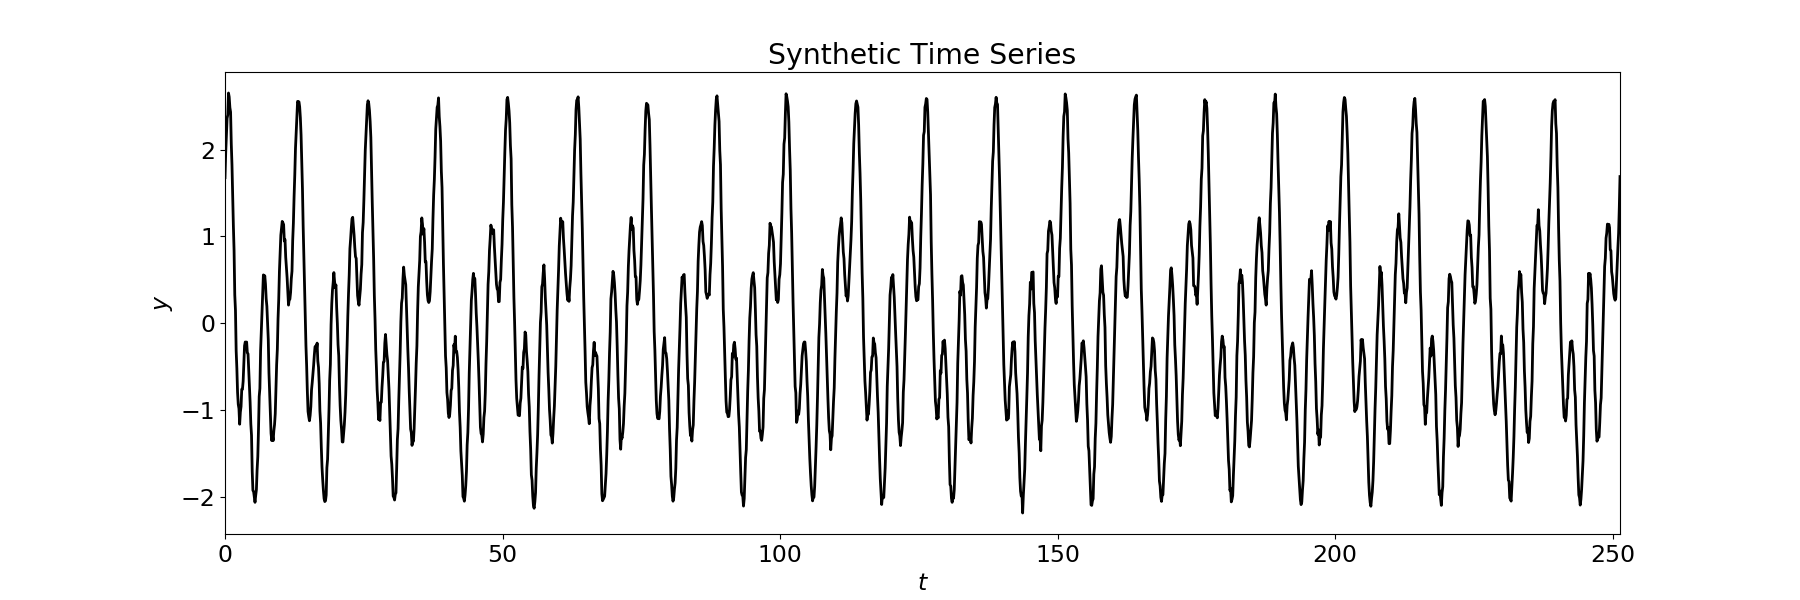
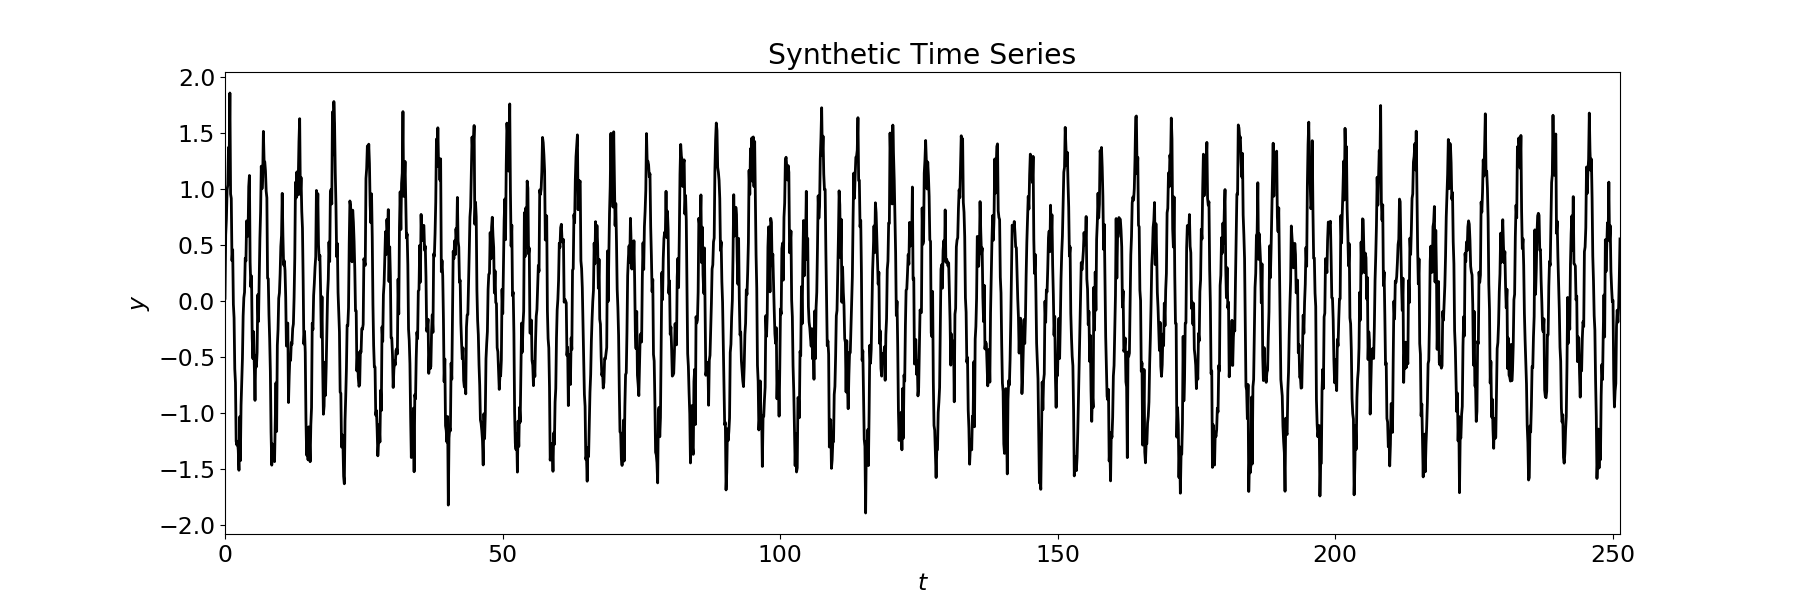
update figures

Changed region(s): [[0.0933, 0.18, 0.9022, 0.84], [0.0933, 0.87, 0.1244, 0.9], [0.0933, 0.12, 0.1244, 0.15]]

diff --git a/code/example.py b/code/example.py
@@ -14,13 +14,40 @@ import sys
 
 import generate_dataset
 import lstm_encoder_decoder
+import plotting 
 
 import matplotlib
 matplotlib.rcParams.update({'font.size': 17})
 
+#----------------------------------------------------------------------------------------------------------------
 # generate dataset for LSTM
 t, y = generate_dataset.synthetic_data()
 t_train, y_train, t_test, y_test = generate_dataset.train_test_split(t, y, split = 0.8)
+
+# plot time series 
+plt.figure(figsize = (18, 6))
+plt.plot(t, y, color = 'k', linewidth = 2)
+plt.xlim([t[0], t[-1]])
+plt.xlabel(r'$t$')
+plt.ylabel(r'$y$')
+plt.title('Synthetic Time Series')
+plt.savefig('plots/synthetic_time_series.png')
+
+# plot time series with train/test split
+plt.figure(figsize = (18, 6))
+plt.plot(t_train, y_train, color = '0.4', linewidth = 2, label = 'Train') 
+plt.plot(np.concatenate([t_train[-2:-1], t_test]), np.concatenate([y_train[-2:-1], y_test]),
+         color = (0.74, 0.37, 0.22), linewidth = 2, label = 'Test')
+plt.xlim([t[0], t[-1]])
+plt.xlabel(r'$t$')
+plt.ylabel(r'$y$')
+plt.title('Time Series Split into Train and Test Sets')
+plt.legend(bbox_to_anchor=(1, 1))
+plt.tight_layout
+plt.savefig('plots/train_test_split.png')
+
+#----------------------------------------------------------------------------------------------------------------
+# window dataset
 
 # set size of input/output windows 
 iw = 80 
@@ -31,47 +58,11 @@ s = 5
 Xtrain, Ytrain= generate_dataset.windowed_dataset(y_train, input_window = iw, output_window = ow, stride = s)
 Xtest, Ytest = generate_dataset.windowed_dataset(y_test, input_window = iw, output_window = ow, stride = s)
 
-# convert windowed data from np.array to PyTorch tensor
-X_train, Y_train, X_test, Y_test = generate_dataset.numpy_to_torch(Xtrain, Ytrain, Xtest, Ytest)
-
-# specify model parameters and train
-model = lstm_encoder_decoder.lstm_seq2seq(input_size = X_train.shape[2], hidden_size = 15)
-loss, loss_tf, loss_no_tf = model.train_model(X_train, Y_train, n_epochs = 10, target_len = ow, batch_size = 5, teacher_forcing_ratio = 0.1, learning_rate = 0.01, dynamic_tf = False)
-
-
-
-
-
-
-sys.exit() 
-# plots: 
-# time series 
-plt.figure(figsize = (18, 6))
-plt.plot(t, y, color = 'k', linewidth = 2)
-plt.xlim([t[0], t[-1]])
-plt.xlabel(r'$t$')
-plt.ylabel(r'$y$')
-plt.title('Synthetic Time Series')
-plt.savefig('plots/synthetic_time_series.png')
-
-# time series with train/test split
-plt.figure(figsize = (18, 6))
-plt.plot(t_train, y_train, color = '0.4', linewidth = 2, label = 'Train') 
-plt.plot(np.concatenate([t_train[-2:-1], t_test]), np.concatenate([y_train[-2:-1], y_test]),
-         color = (0.21, 0.47, 0.69), linewidth = 2, label = 'Test')
-plt.xlim([t[0], t[-1]])
-plt.xlabel(r'$t$')
-plt.ylabel(r'$y$')
-plt.title('Time Series Split into Train and Test Sets')
-plt.legend(bbox_to_anchor=(1, 1))
-plt.tight_layout
-plt.savefig('plots/train_test_split.png')
-
-# example of windowed data  
+# plot example of windowed data  
 plt.figure(figsize = (10, 6)) 
 plt.plot(np.arange(0, iw), Xtrain[:, 0, 0], 'k', linewidth = 2.2, label = 'Input')
 plt.plot(np.arange(iw - 1, iw + ow), np.concatenate([[Xtrain[-1, 0, 0]], Ytrain[:, 0, 0]]),
-         color = (0.76, 0.01, 0.01), linewidth = 2.2, label = 'Target')
+         color = (0.2, 0.42, 0.72), linewidth = 2.2, label = 'Target')
 plt.xlim([0, iw + ow - 1])
 plt.xlabel(r'$t$')
 plt.ylabel(r'$y$')
@@ -79,6 +70,19 @@ plt.title('Example of Windowed Training Data')
 plt.legend(bbox_to_anchor=(1.3, 1))
 plt.tight_layout() 
 plt.savefig('plots/windowed_data.png')
+
+#----------------------------------------------------------------------------------------------------------------
+# LSTM encoder-decoder
+
+# convert windowed data from np.array to PyTorch tensor
+X_train, Y_train, X_test, Y_test = generate_dataset.numpy_to_torch(Xtrain, Ytrain, Xtest, Ytest)
+
+# specify model parameters and train
+model = lstm_encoder_decoder.lstm_seq2seq(input_size = X_train.shape[2], hidden_size = 15)
+loss, loss_tf, loss_no_tf = model.train_model(X_train, Y_train, n_epochs = 50, target_len = ow, batch_size = 5, teacher_forcing_ratio = 0.5, learning_rate = 0.01, dynamic_tf = False)
+
+# plot predictions on train/test data
+plotting.plot_train_test_results(model, Xtrain, Ytrain, Xtest, Ytest)
 
 plt.close('all')
 

diff --git a/code/plotting.py b/code/plotting.py
@@ -1,0 +1,69 @@
+# Author: Laura Kulowski
+
+import numpy as np
+import matplotlib.pyplot as plt
+import torch
+
+def plot_train_test_results(lstm_model, Xtrain, Ytrain, Xtest, Ytest, num_rows = 4):
+  '''
+  plot examples of the lstm encoder-decoder evaluated on the training/test data
+  
+  : param lstm_model:     trained lstm encoder-decoder
+  : param Xtrain:         np.array of windowed training input data
+  : param Ytrain:         np.array of windowed training target data
+  : param Xtest:          np.array of windowed test input data
+  : param Ytest:          np.array of windowed test target data 
+  : param num_rows:       number of training/test examples to plot
+  : return:               num_rows x 2 plots; first column is training data predictions,
+  :                       second column is test data predictions
+  '''
+
+  # input window size
+  iw = Xtrain.shape[0]
+  ow = Ytest.shape[0]
+
+  # figure setup 
+  num_cols = 2
+  num_plots = num_rows * num_cols
+
+  fig, ax = plt.subplots(num_rows, num_cols, figsize = (13, 15))
+  
+  # plot training/test predictions
+  for ii in range(num_rows):
+      # train set
+      X_train_plt = Xtrain[:, ii, :]
+      Y_train_pred = lstm_model.predict(torch.from_numpy(X_train_plt).type(torch.Tensor), target_len = ow)
+
+      ax[ii, 0].plot(np.arange(0, iw), Xtrain[:, ii, 0], 'k', linewidth = 2, label = 'Input')
+      ax[ii, 0].plot(np.arange(iw - 1, iw + ow), np.concatenate([[Xtrain[-1, ii, 0]], Ytrain[:, ii, 0]]),
+                     color = (0.2, 0.42, 0.72), linewidth = 2, label = 'Target')
+      ax[ii, 0].plot(np.arange(iw - 1, iw + ow),  np.concatenate([[Xtrain[-1, ii, 0]], Y_train_pred[:, 0]]),
+                     color = (0.76, 0.01, 0.01), linewidth = 2, label = 'Prediction')
+      ax[ii, 0].set_xlim([0, iw + ow - 1])
+      ax[ii, 0].set_xlabel('$t$')
+      ax[ii, 0].set_ylabel('$y$')
+
+
+      # test set
+      X_test_plt = Xtest[:, ii, :]
+      Y_test_pred = lstm_model.predict(torch.from_numpy(X_test_plt).type(torch.Tensor), target_len = ow)
+      ax[ii, 1].plot(np.arange(0, iw), Xtest[:, ii, 0], 'k', linewidth = 2, label = 'Input')
+      ax[ii, 1].plot(np.arange(iw - 1, iw + ow), np.concatenate([[Xtest[-1, ii, 0]], Ytest[:, ii, 0]]),
+                     color = (0.2, 0.42, 0.72), linewidth = 2, label = 'Target')
+      ax[ii, 1].plot(np.arange(iw - 1, iw + ow), np.concatenate([[Xtest[-1, ii, 0]], Y_test_pred[:, 0]]),
+                     color = (0.76, 0.01, 0.01), linewidth = 2, label = 'Prediction')
+      ax[ii, 1].set_xlim([0, iw + ow - 1])
+      ax[ii, 1].set_xlabel('$t$')
+      ax[ii, 1].set_ylabel('$y$')
+
+      if ii == 0:
+        ax[ii, 0].set_title('Train')
+        
+        ax[ii, 1].legend(bbox_to_anchor=(1, 1))
+        ax[ii, 1].set_title('Test')
+
+  plt.tight_layout() 
+  plt.savefig('plots/predictions.png')
+  plt.close() 
+      
+  return 

diff --git a/code/generate_dataset.py b/code/generate_dataset.py
@@ -20,7 +20,7 @@ def synthetic_data(Nt = 2000, tf = 80 * np.pi):
     '''
     
     t = np.linspace(0., tf, Nt)
-    y = np.sin(2. * t) + 0.3 * np.sin(1. * t) + 0.5 * np.cos(t) + 1.2 * np.cos(0.5 * t + 0.2) + np.random.normal(0., 0.05, Nt)
+    y = np.sin(2. * t) + 0.5 * np.cos(t) + np.random.normal(0., 0.2, Nt)
 
     return t, y
 

diff --git a/README.md b/README.md
@@ -83,3 +83,4 @@ After we have trained the LSTM encoder-decoder, we can use it to make prediction
 
 ## 4 Evaluate LSTM Encoder-Decoder on Train and Test Datasets
 
+Now that we have built the LSTM encoder-decoder, we can evaluate its performance on the time series data.  
